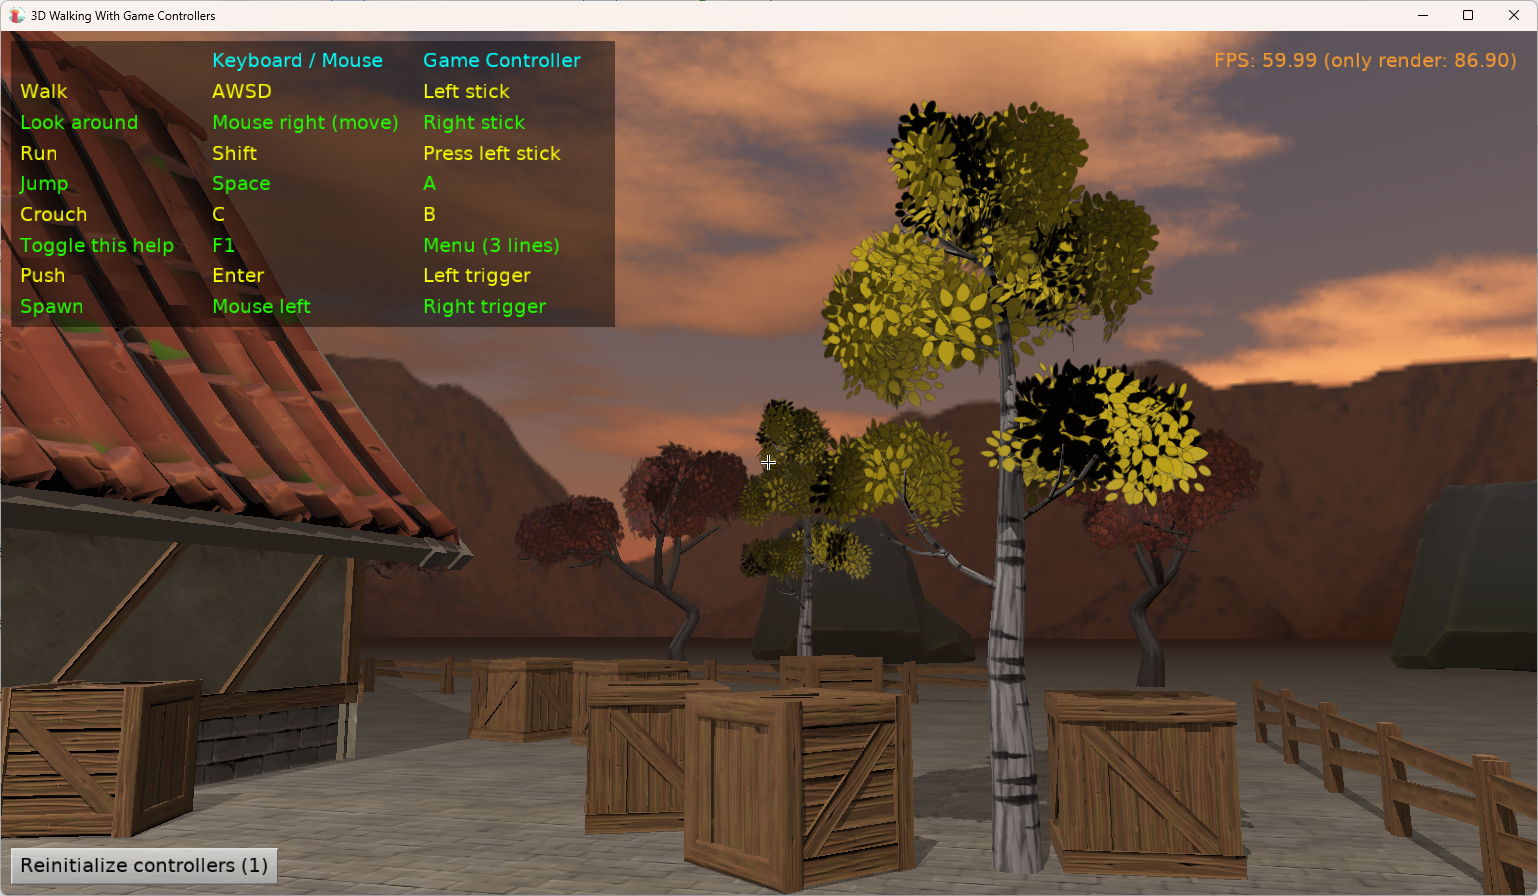
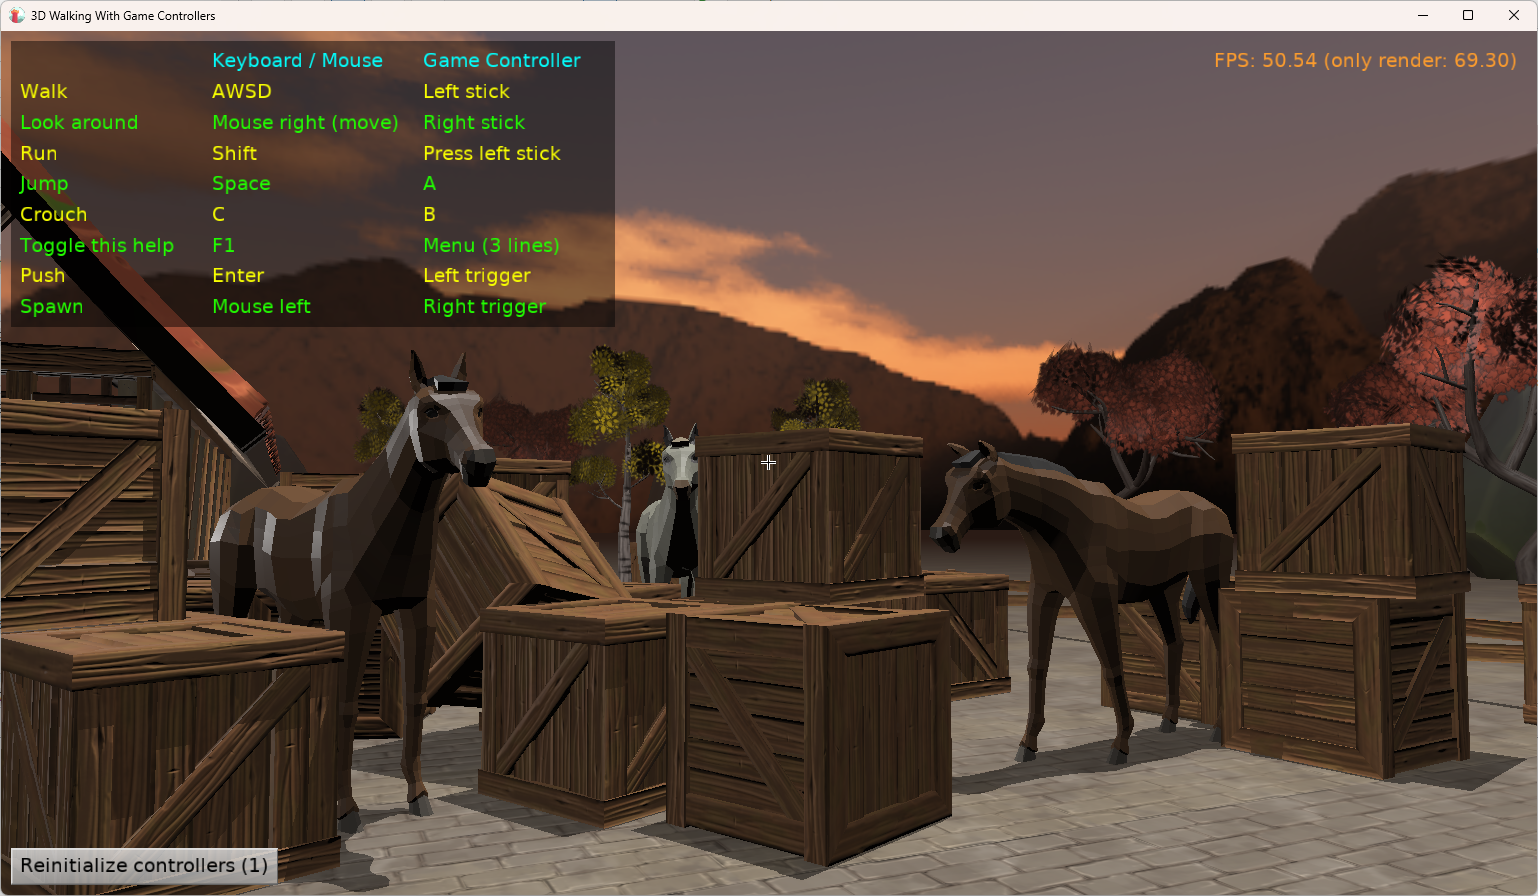
More screenshots are README

diff --git a/README.md b/README.md
@@ -1,8 +1,18 @@
-# conference-delphi-summit-2025
+# 3D Walking With Game Controllers
 
-Demo for [Delphi Summit 2025](https://delphisummit.com/).
+Demo for [Delphi Summit 2025](https://delphisummit.com/)
 
-See [walk_3d_game_controllers](walk_3d_game_controllers/) for the demo application.
+Show simple 3D level where you can
+
+- walk using game controllers (joystick, gamepad)
+
+- spawn and push with physics.
+
+Using [Castle Game Engine](https://castle-engine.io/).
+
+See [walk_3d_game_controllers](walk_3d_game_controllers/) for the demo application code, data and information how to build.
 
 ![Screenshot](walk_3d_game_controllers/screenshot.png)
 ![Screenshot](walk_3d_game_controllers/screenshot2.png)
+![Screenshot](walk_3d_game_controllers/screenshot3.png)
+

diff --git a/walk_3d_game_controllers/README.md b/walk_3d_game_controllers/README.md
@@ -10,6 +10,7 @@ Using [Castle Game Engine](https://castle-engine.io/).
 
 ![Screenshot](screenshot.png)
 ![Screenshot](screenshot2.png)
+![Screenshot](screenshot3.png)
 
 ## Building
 
